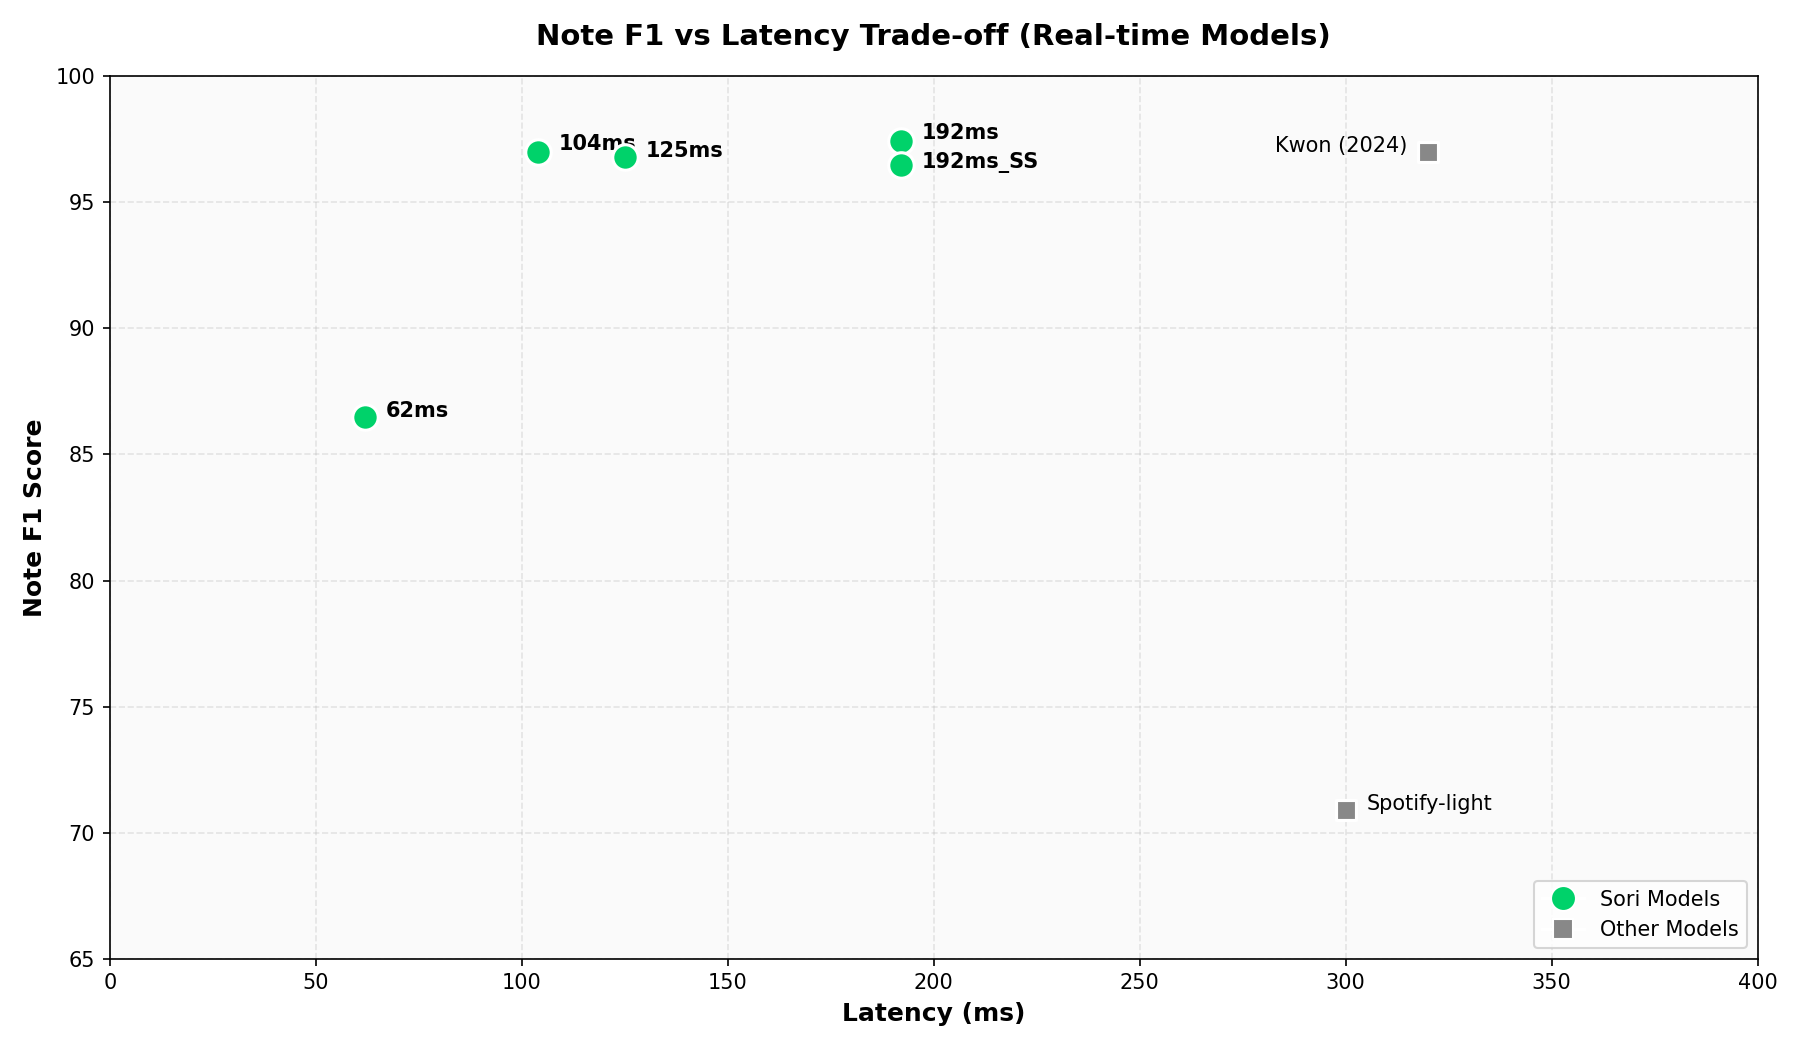
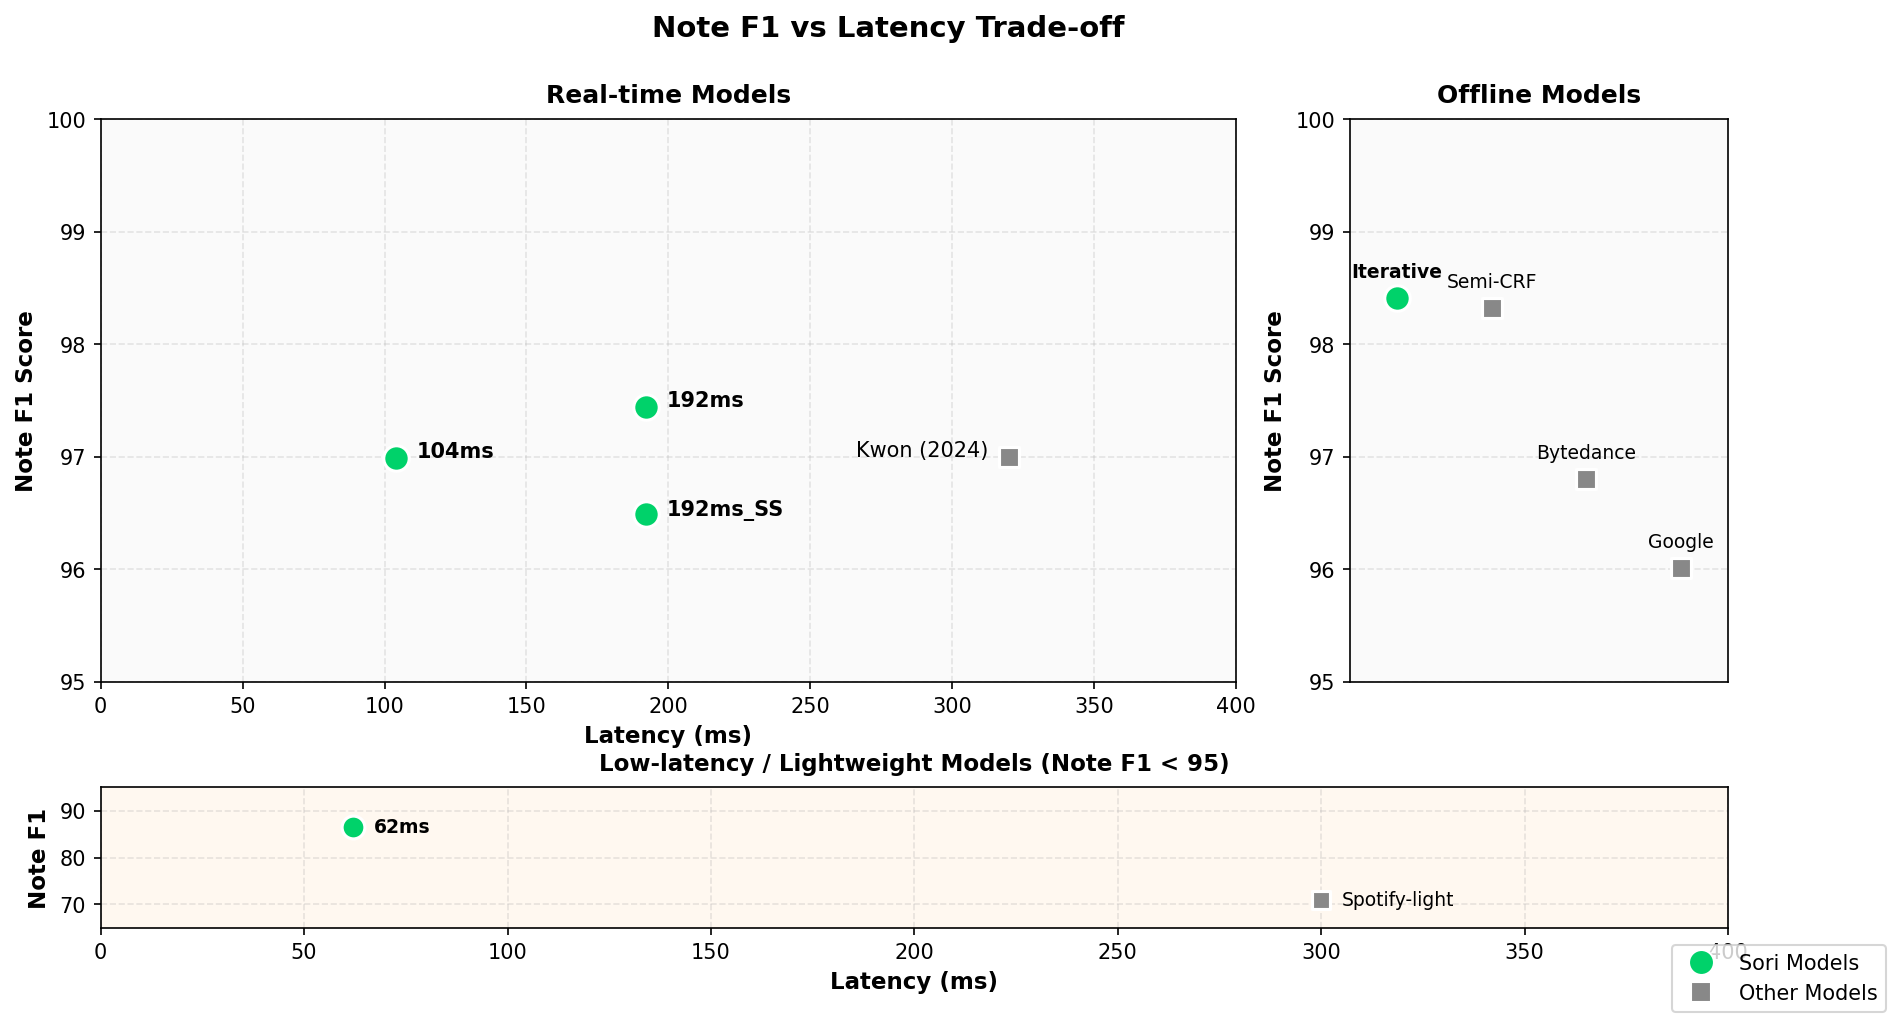
Remove 125ms model and improve trade-off chart
- Remove Sori-Realtime4.8M_125ms from benchmark table, detailed metrics, and model lineup
- Update chart: Y-axis 95+ for main view, separate section for low performers (62ms, Spotify-light)
- Add offline models to chart visualization

diff --git a/README.md b/README.md
@@ -37,7 +37,6 @@ Quantitative evaluation results on standard datasets.
 | **Sori-Realtime4.8M_192ms** | 97.44 | 95.08 | 72.91 | 71.44 | 4.8M | 192ms |
 | Taegyun Kwon (2024) | 97.00 | N/A | 87.90 | 86.80 | 19.7M | 320ms |
 | **Sori-Realtime4.8M_104ms** | 96.99 | 92.72 | 86.17 | 82.58 | 4.8M | 104ms |
-| **Sori-Realtime4.8M_125ms** | 96.80 | 94.84 | 72.29 | 71.10 | 4.8M | 125ms |
 | Bytedance | 96.80 | N/A | 84.70 | 83.30 | 20.2M | Offline |
 | **Sori-Realtime4.8M_192ms_SS** | 96.49 | 90.66 | 70.42 | 66.61 | 4.8M | 192ms |
 | Google | 96.01 | N/A | 83.94 | 82.75 | 54M | Offline |
@@ -64,15 +63,6 @@ Quantitative evaluation results on standard datasets.
 | Note + Velocity | 95.08 | 96.94 | 93.36 |
 | Note + Offsets | 72.91 | 74.18 | 71.72 |
 | Note + Offsets + Velocity | 71.44 | 72.67 | 70.28 |
-
-#### Sori-Realtime4.8M_125ms
-
-| Metric | F1 | Precision | Recall |
-|:-------|:--:|:---------:|:------:|
-| Note (onset only) | 96.80 | 99.19 | 94.62 |
-| Note + Velocity | 94.84 | 97.14 | 92.72 |
-| Note + Offsets | 72.29 | 73.89 | 70.82 |
-| Note + Offsets + Velocity | 71.10 | 72.66 | 69.67 |
 
 #### Sori-Realtime4.8M_104ms
 
@@ -125,7 +115,6 @@ Quantitative evaluation results on standard datasets.
 | **Sori-Offline_Iterative** | N/A | Offline | Highest accuracy with iterative refinement |
 | **Sori-Realtime4.8M_192ms** | 4.8M | 192ms | Best real-time performance |
 | **Sori-Realtime4.8M_192ms_SS** | 4.8M | 192ms | Source separation for noisy environments |
-| **Sori-Realtime4.8M_125ms** | 4.8M | 125ms | Balanced latency and accuracy |
 | **Sori-Realtime4.8M_104ms** | 4.8M | 104ms | Low latency with improved offset accuracy |
 | **Sori-Realtime4.8M_62ms** | 4.8M | 62ms | Ultra-low latency for live performance |
 
